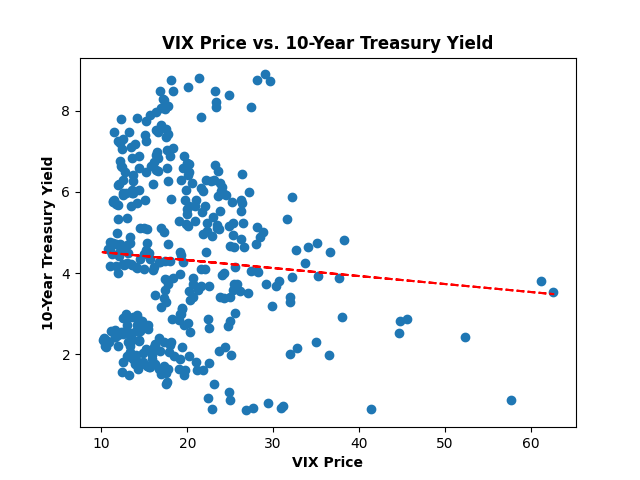
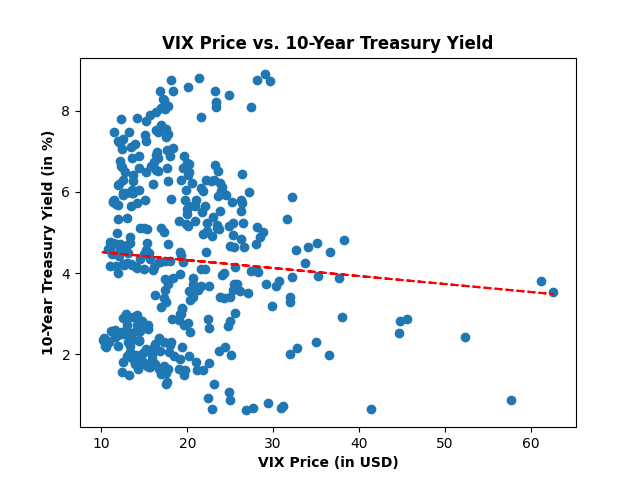
updated graphs and code

Changed region(s): [[0.0625, 0.25, 0.0938, 0.75], [0.4062, 0.9375, 0.625, 1.0]]

diff --git a/T10Y_yield_predictor.py b/T10Y_yield_predictor.py
@@ -74,19 +74,30 @@ vix_v_10y.index = vix_v_10y.index.strftime('%Y')
 ax1 = vix_v_10y['VIX Price'].plot(kind='line')
 ax2 = vix_v_10y['10-Year Treasury Yield'].plot(kind='line', secondary_y = True)
 ax1.set_xlabel('Date', fontweight='bold')
-ax1.set_ylabel('VIX Price (in $US)', fontweight='bold')
+ax1.set_ylabel('VIX Price (in USD)', fontweight='bold')
 ax2.set_ylabel('10-Year Treasury Yield (in %)', fontweight='bold')
 plt.title('Annual Average VIX Price and 10-Year Treasury Yield Since 1990', fontweight='bold')
-#plt.savefig('vix_yield_line.png')
-#plt.show()
+plt.savefig('vix_yield_line.png')
+plt.show()
 
 plt.scatter(vix_df['VIX Price'], ten_yr_yield_df['10-Year Treasury Yield'])
-plt.xlabel('VIX Price', fontweight='bold')
-plt.ylabel('10-Year Treasury Yield', fontweight='bold')
+plt.xlabel('VIX Price (in USD)', fontweight='bold')
+plt.ylabel('10-Year Treasury Yield (in %)', fontweight='bold')
 plt.title('VIX Price vs. 10-Year Treasury Yield', fontweight='bold')
 z = numpy.polyfit(vix_df['VIX Price'], ten_yr_yield_df['10-Year Treasury Yield'], 1)
 p = numpy.poly1d(z)
 plt.plot(vix_df['VIX Price'],p(vix_df['VIX Price']),"r--")
-#plt.savefig('vix_vs_yield.png')
+plt.savefig('vix_vs_yield.png')
 print('\nVIX vs. Yield Regression Equation:', "\n10-Year Treasury Yield = %.2f + %.2f(VIX Price)\n"%(z[1],z[0]))
-#plt.show()
+plt.show()
+
+plt.scatter(merged['Interest Rate'], merged['10-Year Treasury Yield'])
+plt.xlabel('Interest Rate (in %)', fontweight='bold')
+plt.ylabel('10-Year Treasury Yield (in %)', fontweight='bold')
+plt.title('Interest Rate vs. 10-Year Treasury Yield', fontweight='bold')
+z = numpy.polyfit(merged['Interest Rate'], merged['10-Year Treasury Yield'], 1)
+p = numpy.poly1d(z)
+plt.plot(merged['Interest Rate'],p(merged['Interest Rate']),"r--")
+plt.savefig('intrate_vs_yield.png')
+print('\nInterest Rate vs. Yield Regression Equation:', "\n10-Year Treasury Yield = %.2f + %.2f(Interest Rate)\n"%(z[1],z[0]))
+plt.show()
